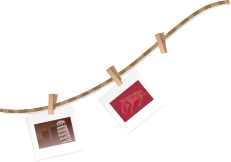
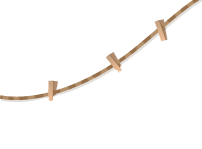
test

Changed region(s): [[0.0, 0.0, 1.0, 0.9128]]

diff --git a/style/index_mobile.css b/style/index_mobile.css
@@ -3,8 +3,40 @@
 }
 
 .shelters{
-	height:200px;
+	height:150px;
 	position:relative;
+}
+
+#memo_rope{
+	width:250px;
+	height:184px;
+	background: url(../images/memo.png) center no-repeat;
+	background-size:cover;
+	position:relative;
+}
+
+#memo1{
+	width:50px;
+	height:50px;
+	background:url(../images/memo1.png) center no-repeat;
+	background-size:cover;
+	position:absolute;
+	left:40px;
+	top:115px;
+}
+
+#memo2{
+	width:50px;
+	height:50px;
+	background:url(../images/memo2.png) center no-repeat;
+	background-size:cover;
+	position:absolute;
+	left:135px;
+	top:75px;
+}
+
+#shelter_above{
+	height:90px;
 }
 
 #shelter_above_board{

diff --git a/index.html b/index.html
@@ -14,6 +14,10 @@
 </head>
 
 <body style="background:url(images/background.png);background-size:cover;">
+    <div id="memo_rope">
+        <div id="memo1"></div>
+        <div id="memo2"></div>
+    </div>
     <div id="shelter">
         <div id="shelter_above" class="shelters">
             <div id="shelter_above_board"></div>
